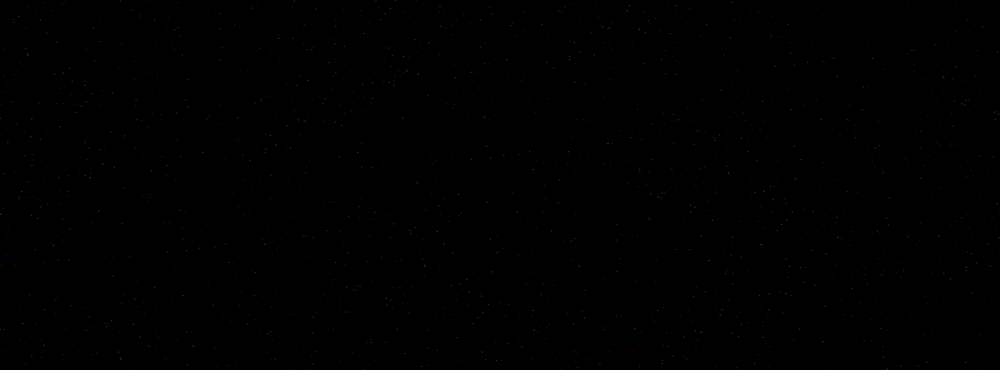
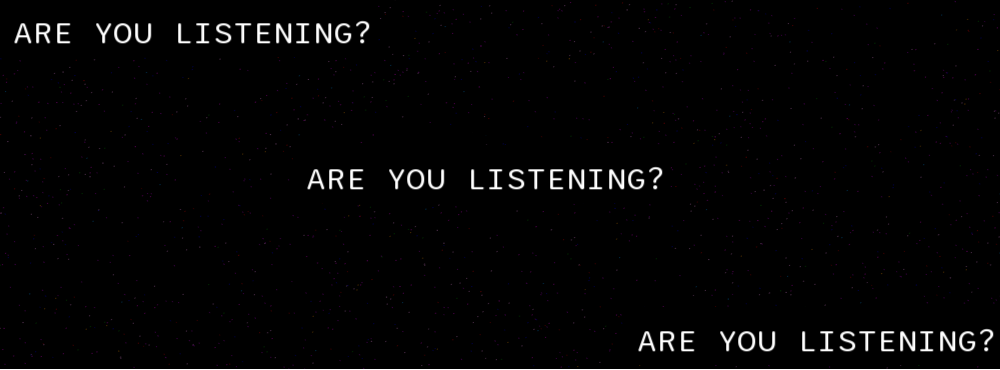
updated again
fixed ever so slightly the formatting and updated the glitcheck

diff --git a/style.css b/style.css
@@ -209,7 +209,7 @@ main
 
     transform: translate(-50%, -50%);
 
-    font-size: 15.93cqh;
+    font-size: 14.53cqh;
 }
 
 footer 
